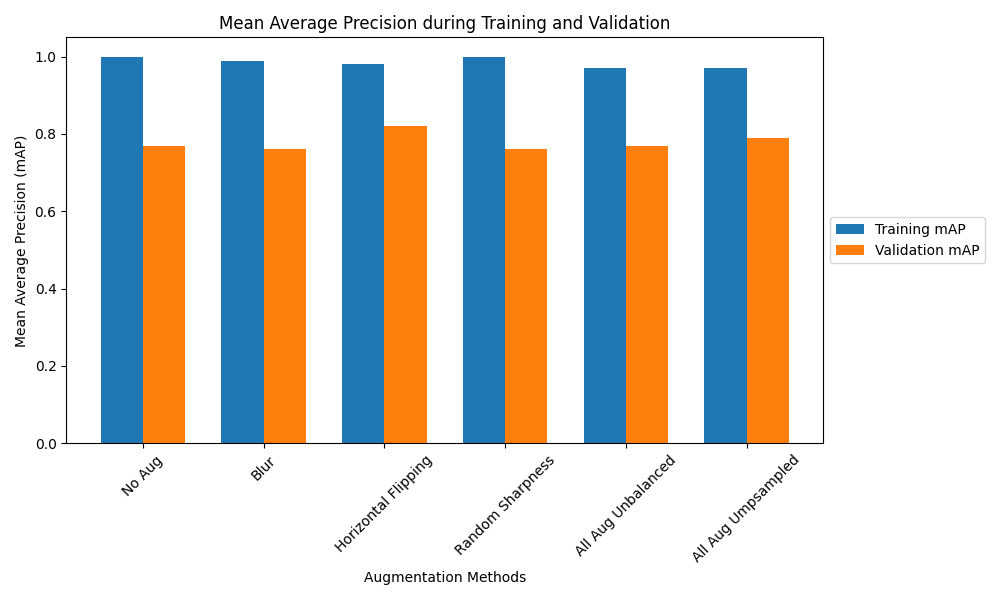
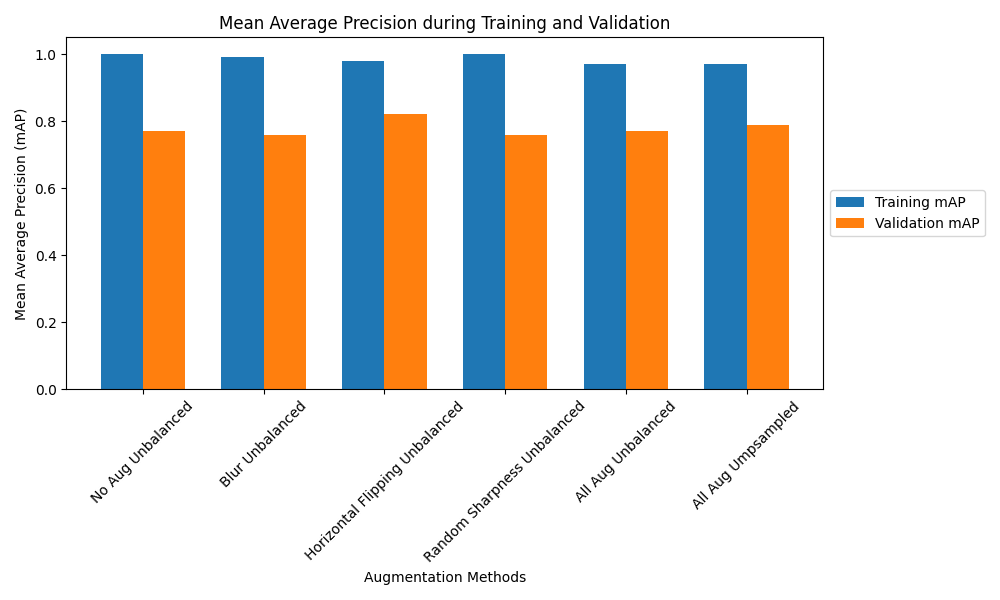
Better prediction plot

diff --git a/pres_plots.py b/pres_plots.py
@@ -1,15 +1,8 @@
-# Plotting the augmentations
-
 import matplotlib.pyplot as plt
-# After 50 epochs 
-
-# show what the defaults were for those augmentations 
+import numpy as np
 
 # Example mAP values (replace these with your actual data)
-methods = ['No Aug Unbalanced', 'Blur Unbalanced', 'Horizontal Flipping Unbalanced', 'Random Sharpness Unbalanced', 'All Aug Unbalanced', 'All Aug Umpsampled']
-# method A BLUR: train = 0.9935017680370775, val =0.7645522951549639
-# flipping : train = 0.9803945972730336, val = 0.8155913197540258
-# sharpness: train = 0.9957616060035979, val = 0.7625355412613961
+methods = ['No Aug Unbalanced', 'Blur Unbalanced', 'Horizontal Flipping Unbalanced', 'Random Sharpness Unbalanced', 'All Aug Unbalanced', 'All Aug Upsampled']
 train_mAP = [1.0, 0.99, 0.98, 1.0, 0.97, 0.97]  # mAP values during training
 val_mAP = [0.77, 0.76, 0.82, 0.76, 0.77, 0.79]    # mAP values during validation
 
@@ -17,25 +10,29 @@ val_mAP = [0.77, 0.76, 0.82, 0.76, 0.77, 0.79]    # mAP values during validation
 fig, ax = plt.subplots(figsize=(10, 6))
 
 bar_width = 0.35
-index = range(len(methods))
+index = np.arange(len(methods))
+
+# Calculate the x-coordinates for both training and validation bars
+combined_x = index + bar_width / 2
 
 # Bar plots for training and validation mAP
-train_bars = ax.bar(index, train_mAP, bar_width, label='Training mAP')
-val_bars = ax.bar([i + bar_width for i in index], val_mAP, bar_width, label='Validation mAP')
+train_bars = ax.bar(combined_x, train_mAP, bar_width, label='Training mAP')
+val_bars = ax.bar(combined_x, val_mAP, bar_width, label='Validation mAP', bottom=train_mAP)  # Stack validation bars on top of training bars
 
 ax.set_xlabel('Augmentation Methods')
 ax.set_ylabel('Mean Average Precision (mAP)')
 ax.set_title('Mean Average Precision during Training and Validation')
-ax.set_xticks([i + bar_width/2 for i in index])
-ax.set_xticklabels(methods, rotation=45)  # Rotate x-axis labels
-
-# ax.set_xticklabels(methods)
-# ax.legend()
+ax.set_xticks([])  # Remove x-axis ticks
+ax.set_xticklabels([])  # Remove x-axis labels
 
 # Place the legend to the right of the plot
 ax.legend(loc='center left', bbox_to_anchor=(1, 0.5))
 
+# Add labels in the middle of each bar
+for i, label in enumerate(methods):
+    ax.text(combined_x[i], (train_mAP[i] + val_mAP[i]) / 2, label, ha='center', va='bottom', rotation=45)
+
 # Display the plot
 plt.tight_layout()
-# plt.tight_layout(rect=[0, 0, 0.85, 1])
-plt.savefig('mAP_augmentations new.png')
+plt.savefig('mAP_augmentations_new.png')
+plt.show()
